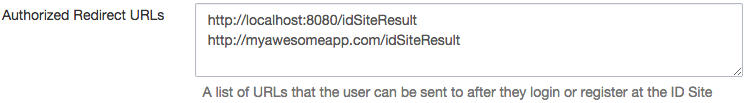
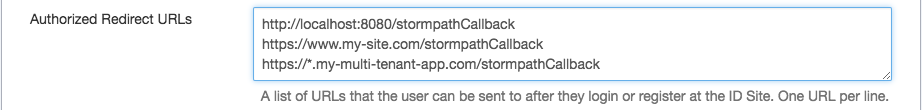
Updated idsite section.

Changed region(s): [[0.0, 0.0, 1.0, 1.0]]

diff --git a/docs/source/idsite.rst b/docs/source/idsite.rst
@@ -29,11 +29,15 @@ If you want to use ID Site, the first thing you'll need to do is to `enable the 
 
    These instructions will only cover using the built-in hosted login site – if you’d like to customize your ID Site URL or look and feel (theme), please see the official `ID Site documentation`_.
 
-In the box labeled “Authorized Redirect URIs”, enter your redirect URL – this should be set to something like: ``https://www.mysite.com/stormpathCallback``. If you’re testing locally, you might want to set this to: ``http://localhost:${port}/stormpathCallback``
+In the box labeled “Authorized Redirect URIs”, enter your redirect URL – this should be set to something like: ``https://www.my-site.com/stormpathCallback``. If you’re testing locally, you might want to set this to: ``http://localhost:${port}/stormpathCallback``.
+
+If you are taking advantage of Stormpath's Multi-Tenancy features, you can use wildcards, like: ``https://*.my-multi-tenant-app.com/stormpathCallback``. This would authorize any subdomain of ``my-multi-tenant-app.com``, such as ``https://fun-co.my-multi-tenant-app.com/stormpathCallback``.
+
+For more information on using Stormpath in a multi-tenant configuration, read our `Multi-Tenant SaaS Guide`_.
 
 If you’d like to support both production and local environments, you can add multiple URLs (*just click the “Add another” button and enter as many URLs as you’d like*).
 
-Lastly, make sure to click the “Update” button at the bottom of the page to save your changes.
+Lastly, make sure to click the “Save” button at the bottom of the page to save your changes.
 
 In the end, it should look something like this:
 
@@ -64,3 +68,4 @@ Here's a screenshot of the default ID Site login page to show an example of what
 .. image:: /_static/idsite-login.png
 
 .. _ID Site documentation: http://docs.stormpath.com/guides/using-id-site/
+.. _Multi-Tenant SaaS Guide: https://docs.stormpath.com/rest/product-guide/latest/multitenancy.html
